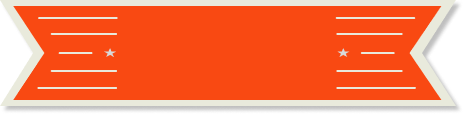
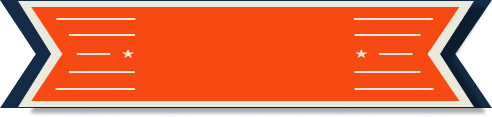
most of the header is working

Changed region(s): [[0.0, 0.0, 1.0, 0.9737]]

diff --git a/app/javascript/components/pages/AboutUs.js b/app/javascript/components/pages/AboutUs.js
@@ -12,54 +12,56 @@ import { Card,
 export default class AboutUs extends Component {
     render() {
         return (
-            <div>AboutUs
+            <div className='aboutUsColorContainer'>
+            <div className='aboutUsCardContainer'>
                 <CardGroup>
-{/* Jorge about me */}
-                <Card>
-                    <CardImg top src="https://avatars.githubusercontent.com/u/101531326?v=4" alt="two dogs" />
-                    <CardBody>
-                    <CardTitle>Jorge Linares</CardTitle>
-                    <CardSubtitle>Grub Project Manager</CardSubtitle>
-                    <CardText>Add your about me in this section.</CardText>
-                    <NavLink href="https://github.com/ChompyStackers/Grubber" target ="_blank">LinkedIn</NavLink>
-                    <NavLink href="https://github.com/ChompyStackers/Grubber" target="_blank">GitHub</NavLink>
-                    </CardBody>
-                </Card>
-{/* Frank about me */}
-                <Card>
-                    <CardImg top src="https://avatars.githubusercontent.com/u/98143232?v=4" alt="frank the tank" />
-                    <CardBody>
-                    <CardTitle>Francisco Rivera</CardTitle>
-                    <CardSubtitle>Grub Tech Lead</CardSubtitle>
-                    <CardText>Add your about me in this section.</CardText>
-                    <NavLink href="https://github.com/ChompyStackers/Grubber" target="_blank">LinkedIn</NavLink>
-                    <NavLink href="https://github.com/ChompyStackers/Grubber" target='_blank'>GitHub</NavLink>
-                    </CardBody>
-                </Card>
-{/* JB about me */}
-                <Card>
-                    <CardImg top src="https://avatars.githubusercontent.com/u/101531299?s=120&v=4" alt="github picture" />
-                    <CardBody>
-                    <CardTitle>JB</CardTitle>
-                    <CardSubtitle>Grub Product Manager</CardSubtitle>
-                    <CardText>Add your about me in this section.</CardText>
-                    <NavLink href="https://github.com/ChompyStackers/Grubber" target="_blank">LinkedIn</NavLink>
-                    <NavLink href="https://github.com/ChompyStackers/Grubber" target="_blank">GitHub</NavLink>
-                    </CardBody>
-                </Card>
-{/* Stephen about me */}
-                <Card>
-                    <CardImg top src="https://avatars.githubusercontent.com/u/101531285?v=4" alt="designigator" />
-                    <CardBody>
-                    <CardTitle>Stephen OMarrah</CardTitle>
-                    <CardSubtitle>Grub Design Lead</CardSubtitle>
-                    <CardText>Grub Design Lead</CardText>
-                    <NavLink href="https://github.com/ChompyStackers/Grubber" target="_blank">LinkedIn</NavLink>
-                    <NavLink href="https://github.com/ChompyStackers/Grubber" target="_blank">GitHub</NavLink>
-                    </CardBody>
-                </Card>
+    {/* Jorge about me */}
+                    <Card className='aboutUsCard'>
+                        <CardImg top src="https://avatars.githubusercontent.com/u/101531326?v=4" alt="two dogs" />
+                        <CardBody>
+                        <CardTitle>Jorge Linares</CardTitle>
+                        <CardSubtitle>Grub Project Manager</CardSubtitle>
+                        <CardText>Add your about me in this section.</CardText>
+                        <NavLink href="https://github.com/ChompyStackers/Grubber" target ="_blank">LinkedIn</NavLink>
+                        <NavLink href="https://github.com/ChompyStackers/Grubber" target="_blank">GitHub</NavLink>
+                        </CardBody>
+                    </Card>
+    {/* Frank about me */}
+                    <Card className='aboutUsCard'>
+                        <CardImg top src="https://avatars.githubusercontent.com/u/98143232?v=4" alt="frank the tank" />
+                        <CardBody>
+                        <CardTitle>Francisco Rivera</CardTitle>
+                        <CardSubtitle>Grub Tech Lead</CardSubtitle>
+                        <CardText>Add your about me in this section.</CardText>
+                        <NavLink href="https://github.com/ChompyStackers/Grubber" target="_blank">LinkedIn</NavLink>
+                        <NavLink href="https://github.com/ChompyStackers/Grubber" target='_blank'>GitHub</NavLink>
+                        </CardBody>
+                    </Card>
+    {/* JB about me */}
+                    <Card className='aboutUsCard'>
+                        <CardImg top src="https://avatars.githubusercontent.com/u/101531299?s=120&v=4" alt="github picture" />
+                        <CardBody>
+                        <CardTitle>JB</CardTitle>
+                        <CardSubtitle>Grub Product Manager</CardSubtitle>
+                        <CardText>Add your about me in this section.</CardText>
+                        <NavLink href="https://github.com/ChompyStackers/Grubber" target="_blank">LinkedIn</NavLink>
+                        <NavLink href="https://github.com/ChompyStackers/Grubber" target="_blank">GitHub</NavLink>
+                        </CardBody>
+                    </Card>
+    {/* Stephen about me */}
+                    <Card className='aboutUsCard'>
+                        <CardImg top src="https://avatars.githubusercontent.com/u/101531285?v=4" alt="designigator" />
+                        <CardBody>
+                        <CardTitle>Stephen OMarrah</CardTitle>
+                        <CardSubtitle>Grub Design Lead</CardSubtitle>
+                        <CardText>Grub Design Lead</CardText>
+                        <NavLink href="https://github.com/ChompyStackers/Grubber" target="_blank">LinkedIn</NavLink>
+                        <NavLink href="https://github.com/ChompyStackers/Grubber" target="_blank">GitHub</NavLink>
+                        </CardBody>
+                    </Card>
 
                 </CardGroup>
+            </div>
             </div>
         )
     }

diff --git a/app/assets/stylesheets/application.scss b/app/assets/stylesheets/application.scss
@@ -14,19 +14,51 @@
  *= require_self
  */
  @import 'bootstrap';
+ @import url('https://fonts.googleapis.com/css2?family=Orbitron:wght@400;900&family=Yesteryear&display=swap');
+ 
 html{
-  height: 100%;
-  width: 100%;
-}
- body{
-  height: inherit;
+  height: 95vh;
+} 
+body{
+  height: 95vh;
   width: inherit;
-  background-color: #E9EADC;
+  background-color: #132B47 ;
  }
+#appIndex{
+  height: 97.3vh;
+  width: 100vw;
+  background-color: #E9EADC;
+}
 .container{
   display: flex;
   justify-content: center;
   align-items: center;
+}
+.card-group{
+  margin-top: 5em;
+  width: 95%;
+  height:100%;
+}
+@media (max-width:700px){
+  .titleImage{
+    // max-width: 200px;
+    max-height: 50px;
+  }
+  .navbar-brand{
+    font-size: 10px;
+  }
+  .grubNavBar{
+    max-height: 30px;
+  }
+  .hamburgerIcon{
+    max-height: 50px;
+    z-index: 3;
+    margin-right: 30px;
+  }
+  #homeplanetImage{
+    position: absolute;
+    bottom: 0;
+  }
 }
 @media (max-width:540px){
   .card-group{
@@ -37,66 +69,125 @@ html{
   }
 }}
 .grubNavBar{
-  background-color: #0b0c1000;
+  background-color: #E9EADC;
+  margin-top: 1.5%;
+  height: 75px;
+}
+#headerContainterTitle{
+  position: relative;
+  text-align: center;
+}
+#titleText{
+  position: absolute;
+  font-family: "Orbitron";
+  text-align: center;
+  font-weight: 900;
+  font-size: 2em;
+  top: 50%;
+  left: 50%;
+  transform: translate(-50%, -50%);
+}
+#homeplanetImage{
+position: absolute;
+margin-top: 40%;
+z-index: 0;
+width: 100%;
+overflow: hidden;
 }
 .dropdownBurger{
   padding-right: 50px;
 }
 .hamburgerIcon{
   height: 75px;
+  margin-bottom: 1.3em;
 }
+
 .dropdown-menu{
   background-color: rgba(250, 235, 215, 0);
   border: 1px solid #45A29E;
   border-radius: 0.25rem;
 } 
 .dropdown-item{
-  color: #66fcf1;
+  color: #E9EADC;
 }
 .dropdown-item:hover{
-  color:#45A29E;
+  color:#132B47 ;
   background-color: rgba(0, 255, 255, 0);
 }
+.container-fluid{
+  flex-direction: row-reverse;
+}
+.navbar-brand{
+  margin-left: auto;
+  margin-right: auto;
+  z-index: 2;
+}
+.navbar-nav{
+  margin-right: -10em;
+}
+
 .navbar-brand, .dropdown-toggle{
-    color: #66fcf1;
+    color: #E9EADC;
     text-decoration: none;
 }
 .dropdown-toggle.nav-link::before{
-  color: #66fcf1;
+  color: #E9EADC;
   text-decoration: none;
 }
 .dropdown-toggle.nav-link::after{
   text-decoration: none;
  
 }
+.homeColorContainer{
+  width: 100%;
+  background-color: #E9EADC;
+  height: 80%;
+  z-index: 1;
+}
 .homeCardContainer{
   display: flex;
   justify-content: center;
- 
+  height: 100%;
 }
+.aboutUsColorContainer{
+  width: 100%;
+  background-color: #E9EADC;
+  height: fit-content;
+  height: 80%;
+}
+.aboutUsCardContainer{
+  display: flex;
+  justify-content: center;
+  height: 80%;
+}
+
 .card{
   background-color: #0b0c1000;
-  color: white;
-  width: 50%;
+  color: #E9EADC;
+  width: 95%;
   justify-content: center;
   align-items: center;
-  border: 1px solid #45A29E;
+  border: #132b4700;
   border-radius: 0.5rem;
+  background-color: #132B47;
+  height: 100%;
+  z-index: 1;
+  overflow: hidden;
+}
+.card-body{
+  z-index: 1;
 }
 .card-img-top{
-  width: 100%;
-
+  height: 200px;
+  width: 200px;
+  border-radius: 50%;
+  z-index: 1;
 }
 .navbar-brand:hover, .navbar-brand::selection, .dropdown-toggle:hover, .dropdown-toggle::selection{
-  color: #45A29E;
+  color: #132B47 ;
   text-decoration: none;
 }
 
-
-.footer{ 
-   display: block;
-  bottom: 0;
-}
 #cardimage{ 
     width: 200px;
 }

diff --git a/app/javascript/components/pages/Home.js b/app/javascript/components/pages/Home.js
@@ -6,25 +6,30 @@ import { Card,
   CardLink,
 CardTitle, 
 CardSubtitle } from 'reactstrap';
+import HomePlanet from '../assets/homePlanet.png'
 
 
 export default class Home extends Component {
   render() {
     return (
-    <div className='homeCardContainer'>
-      <Card>
-      <CardBody>
-        <CardTitle>Grubber</CardTitle>
-        <CardSubtitle>A perfect place for your perfect plate -A PP for your PP</CardSubtitle>
-      </CardBody>
-      <CardImg top src="https://images.unsplash.com/photo-1572802419224-296b0aeee0d9?ixlib=rb-1.2.1&ixid=MnwxMjA3fDB8MHxzZWFyY2h8MXx8Y2hlZXNlYnVyZ2VyfGVufDB8fDB8fA%3D%3D&auto=format&fit=crop&w=400&q=60" alt="Card image cap"/>
-      <CardBody>
-        <CardText>What's for dinner</CardText>
-        <CardLink href="#"><button>Randomize your Grub</button></CardLink>
-        <CardLink href="#"><button>Randomize all Grub</button></CardLink>
-      </CardBody>
-    </Card>
-  </div>
+      <div className='homeColorContainer'>
+        <div className='homeCardContainer'>
+          <Card>
+            <CardBody>
+              <CardTitle>Grubber</CardTitle>
+              <CardSubtitle>A perfect place for your perfect plate -A PP for your PP</CardSubtitle>
+            </CardBody>
+            <CardImg top src="https://images.unsplash.com/photo-1572802419224-296b0aeee0d9?ixlib=rb-1.2.1&ixid=MnwxMjA3fDB8MHxzZWFyY2h8MXx8Y2hlZXNlYnVyZ2VyfGVufDB8fDB8fA%3D%3D&auto=format&fit=crop&w=400&q=60" alt="Card image cap"/>
+            <CardBody>
+              <CardText>What's for dinner</CardText>
+              <CardLink href="#"><button>Randomize your Grub</button></CardLink>
+              <CardLink href="#"><button>Randomize all Grub</button></CardLink>
+            </CardBody>
+            <img id='homeplanetImage'src={HomePlanet}/>
+          </Card>
+          
+        </div>
+      </div>
     )
   }
 }

diff --git a/app/javascript/components/components/Header.js b/app/javascript/components/components/Header.js
@@ -1,5 +1,6 @@
 import React, { Component } from 'react'
-import Hamburgericon from "../assets/Hamburger icon.png"
+import Hamburgericon from "../assets/hamburgerIcon.png"
+import TitleImage from "../assets/Title image.png"
 import {
     Collapse,
     Navbar,
@@ -38,13 +39,13 @@ export default class Header extends Component {
     return (
         <div>
         <Navbar className="grubNavBar" expand="md">
-          <NavbarBrand href="/">Grubber</NavbarBrand>
+          <NavbarBrand href="/"><div id="headerContainterTitle"><img className='titleImage' src={TitleImage}/><div id='titleText'>Grubber</div></div></NavbarBrand>
             <Nav className="ml-auto" navbar>
               <UncontrolledDropdown nav inNavbar className='dropdownBurger'>
                 <DropdownToggle nav caret>
                 <img className="hamburgerIcon" src={Hamburgericon} />
                 </DropdownToggle>
-                <DropdownMenu  end>
+                <DropdownMenu >
                 <DropdownItem id="All restaurants" href='/restaurantindex'>
                    All Restaurants
                 </DropdownItem>

diff --git a/app/javascript/components/App.js b/app/javascript/components/App.js
@@ -85,7 +85,7 @@ class App extends React.Component {
           <Route path="/restaurantnew" render={(props) => <RestaurantNew {...this.props} createRestaurant={this.createRestaurant} />} />
           <Route component={NotFound}/>       
         </Switch>
-        <Footer/>
+        {/* <Footer/> */}
       </Router>
     );
   }
